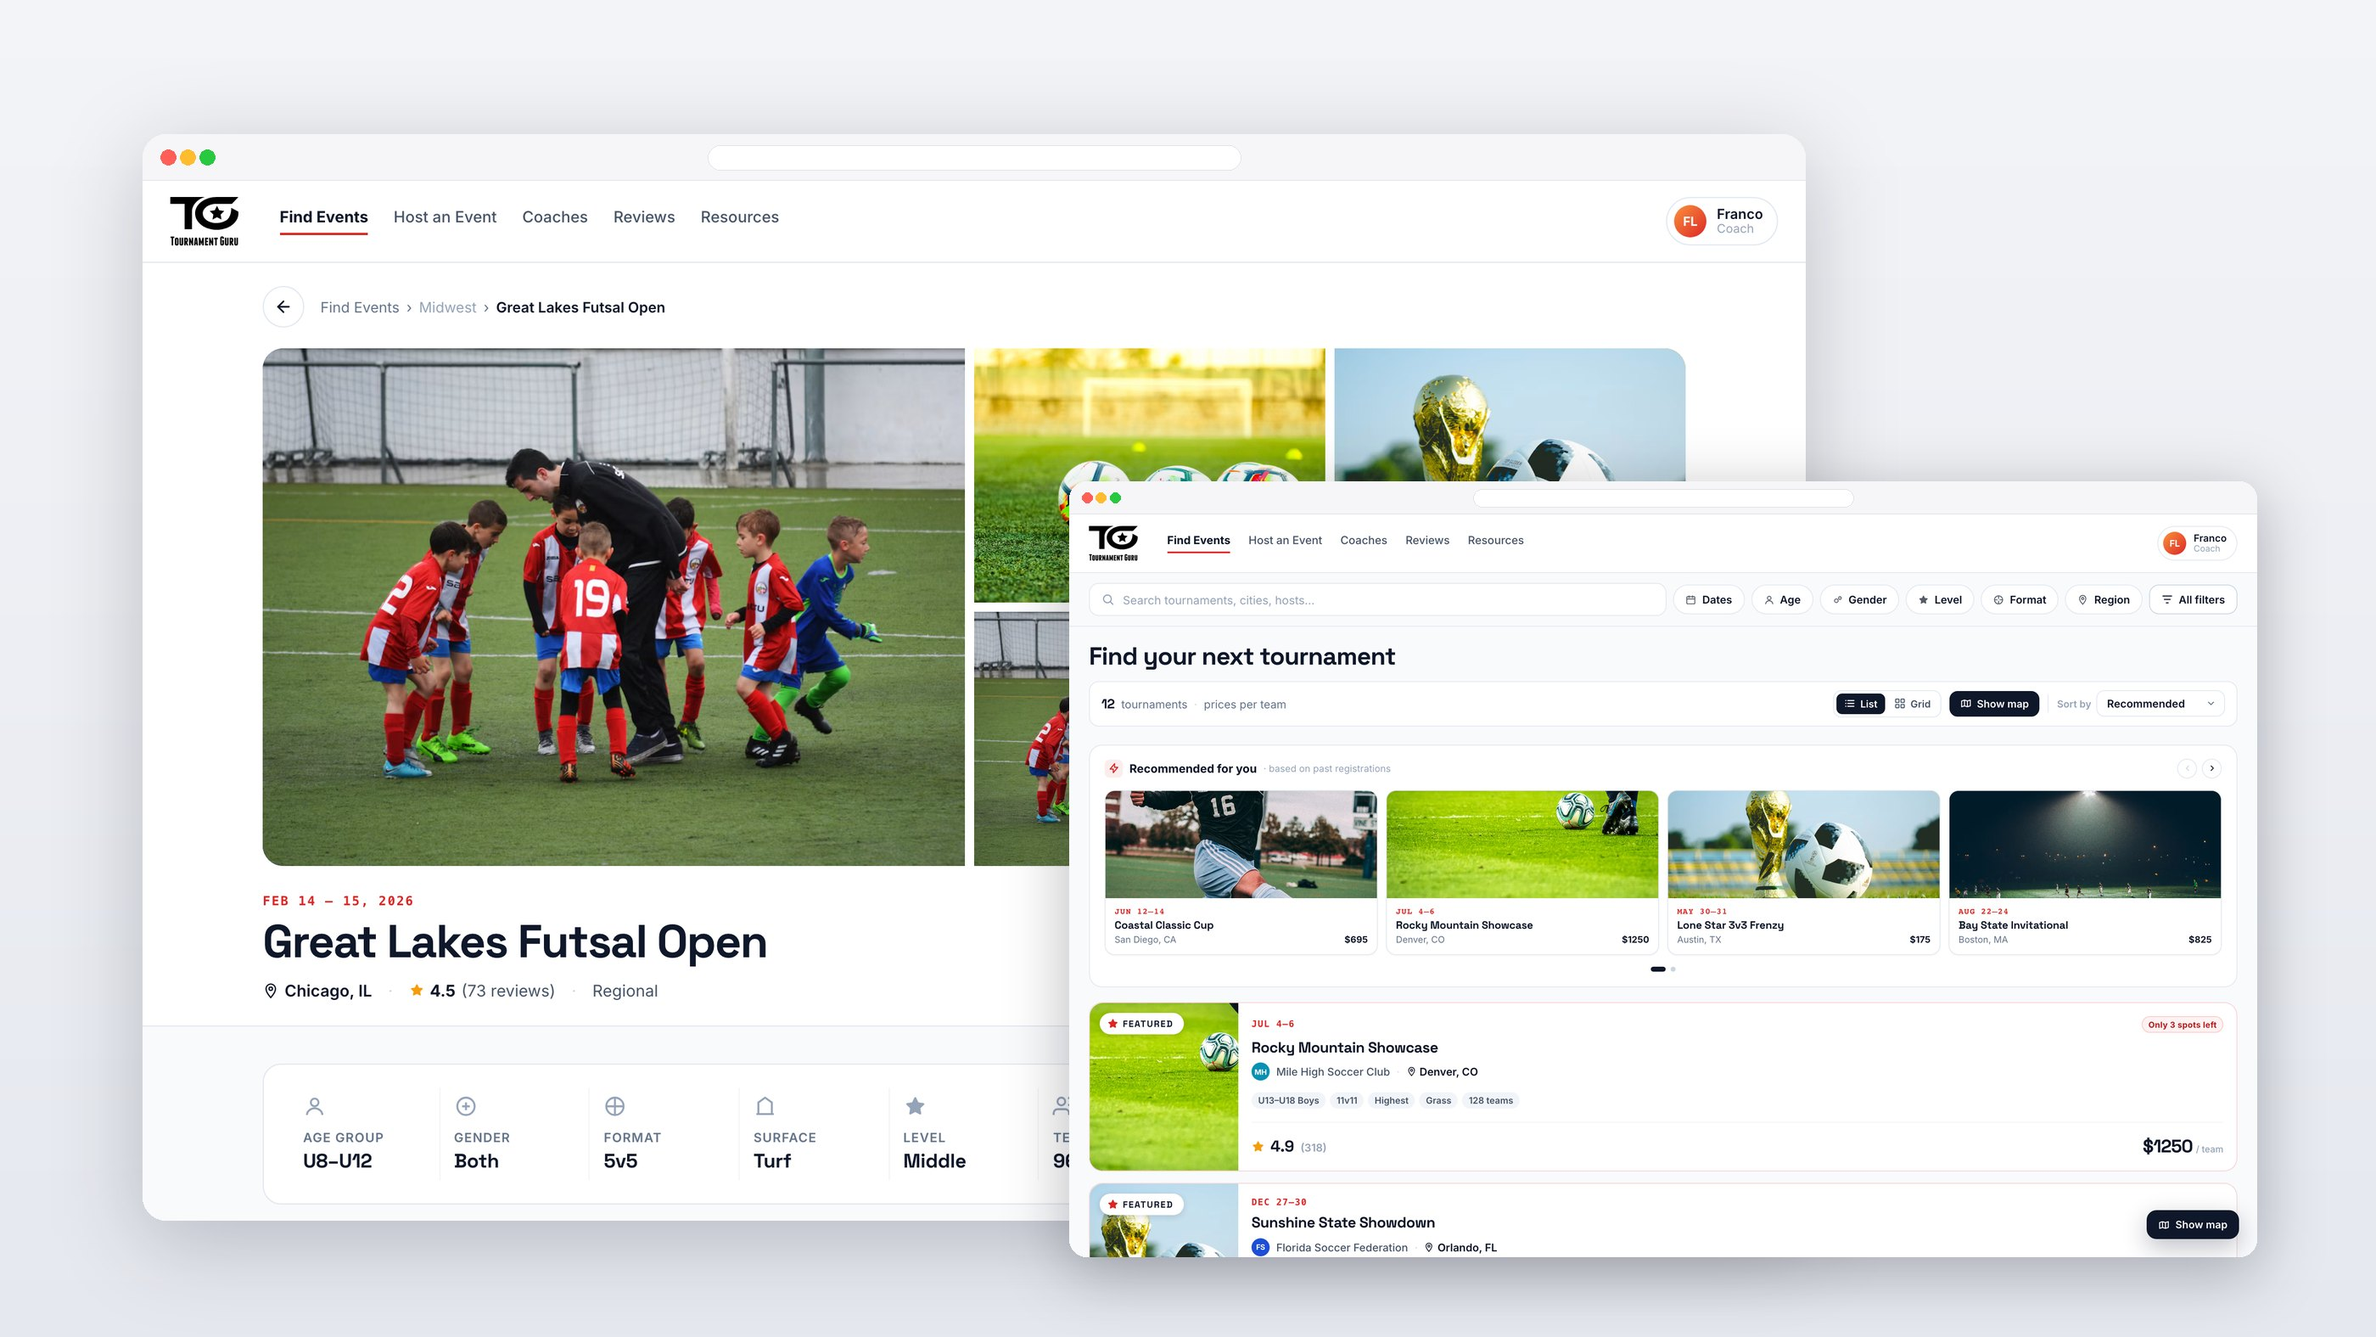
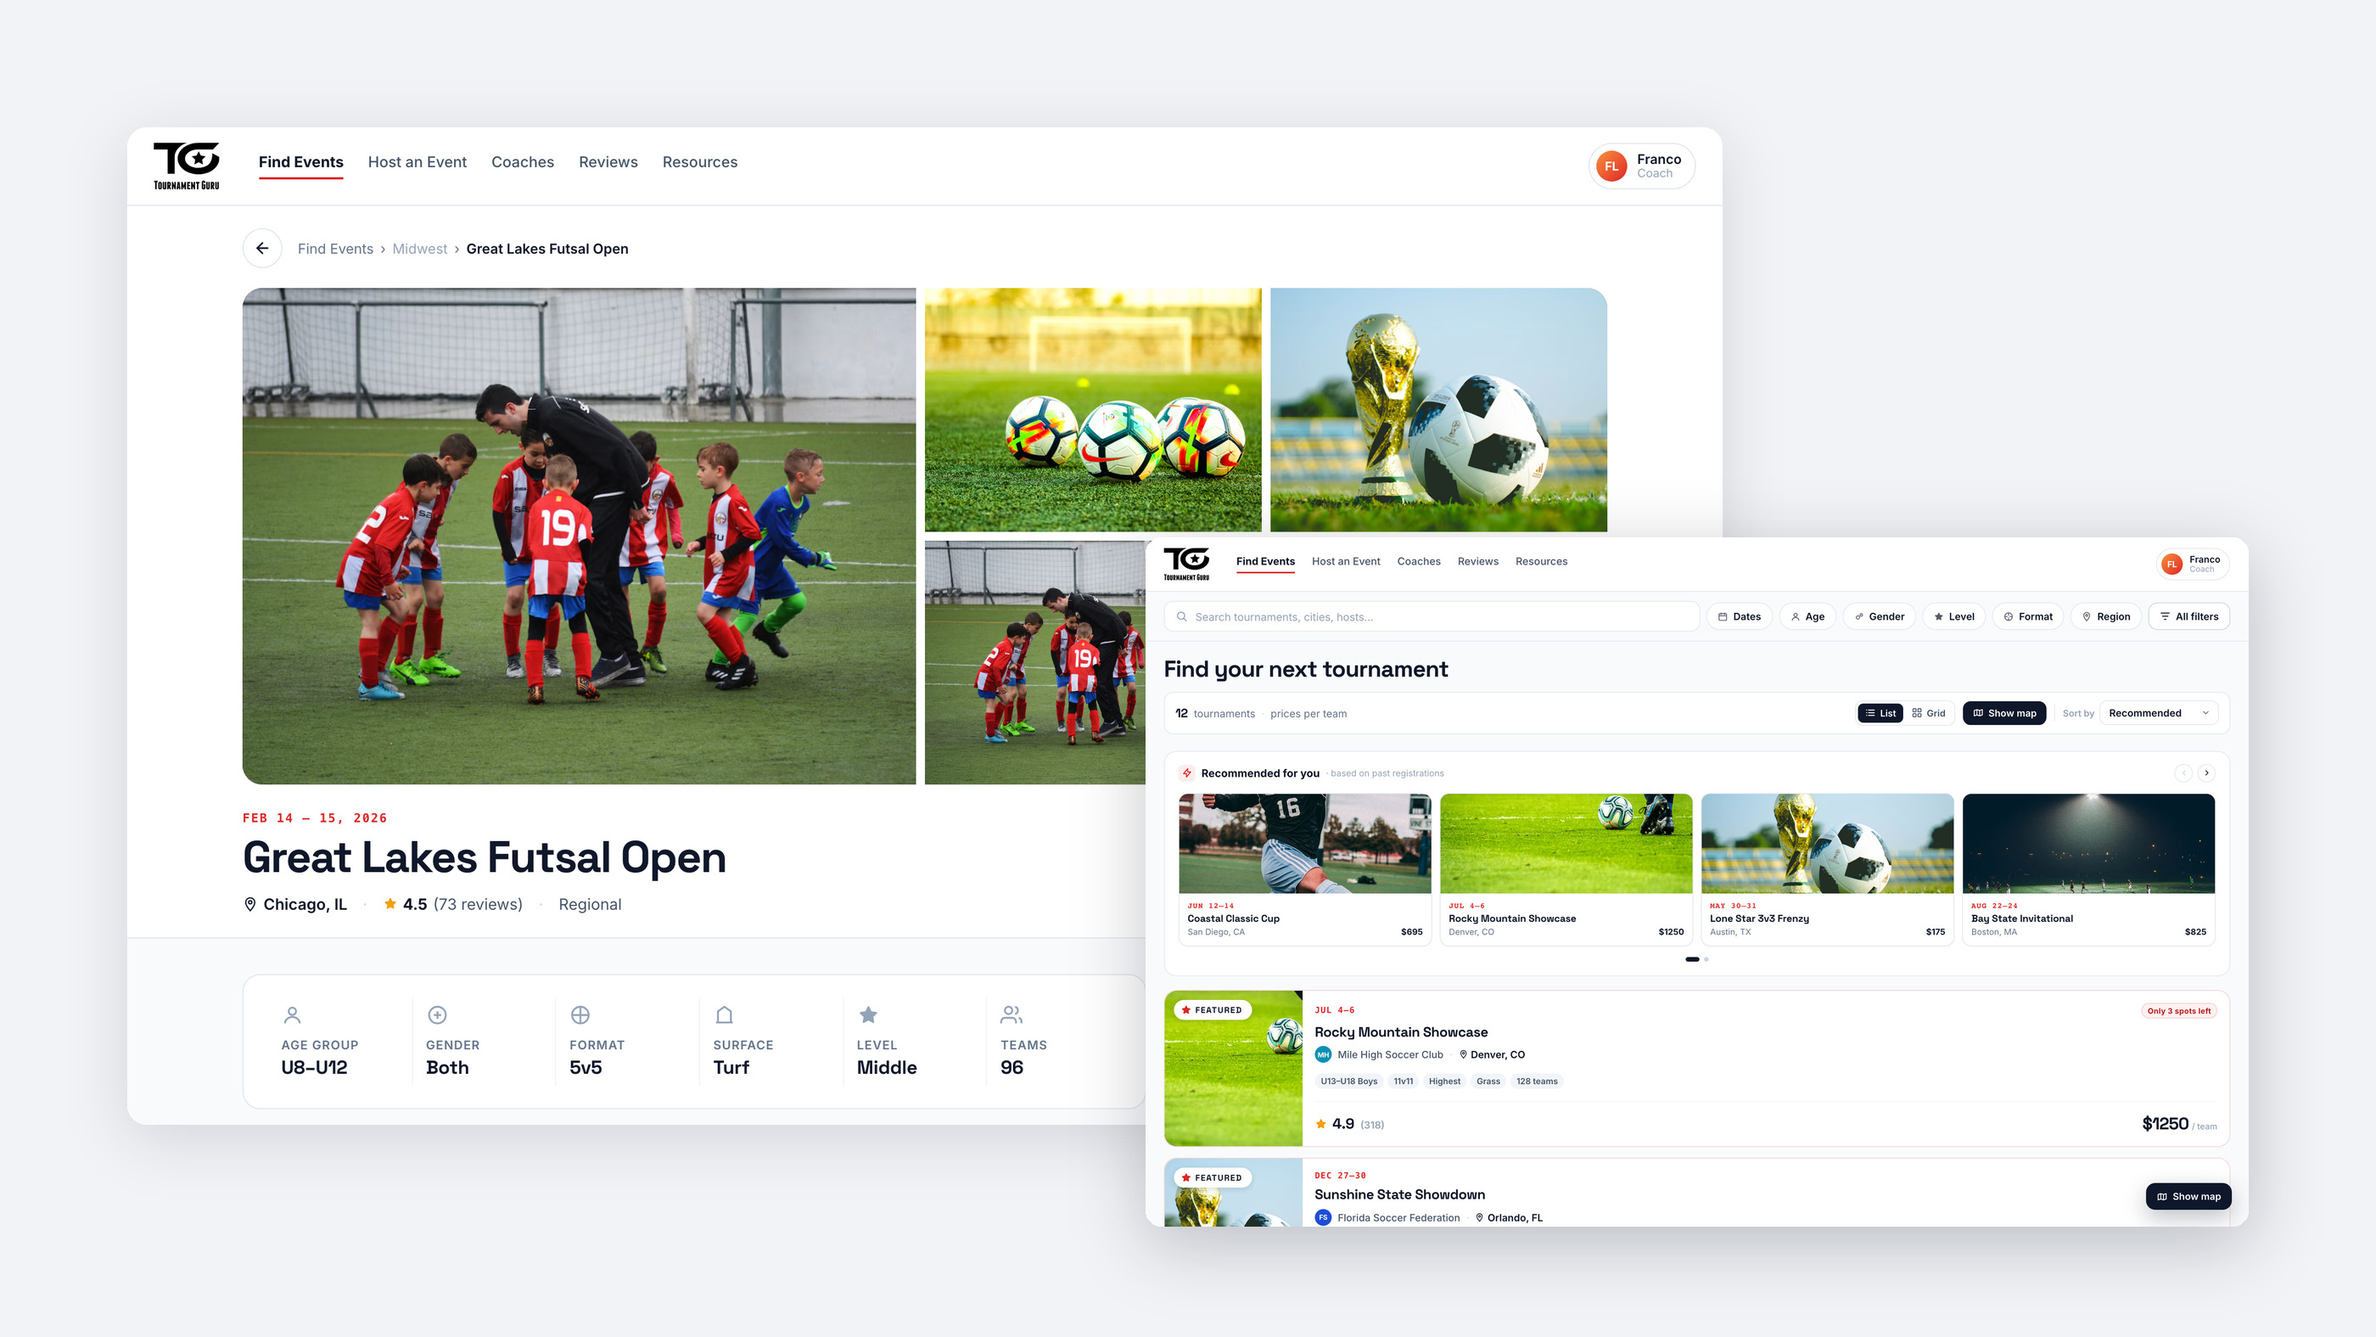
Tournament Guru: photos, flow stairs, sharp screens, new cover
Claude-Session: https://claude.ai/code/session_019s9hMNDEcLkm54bZicL17g

diff --git a/cases/tournament-guru.html b/cases/tournament-guru.html
@@ -199,6 +199,16 @@ figure{margin:0}
 
 /* «следующий кейс»: тёмное затемнение снизу, светлый текст */
 .ncase .media::after{background:linear-gradient(to top,rgba(10,14,24,.82) 0%,rgba(10,14,24,.45) 30%,rgba(10,14,24,0) 60%)!important}.ncase .lbl small{color:rgba(255,255,255,.75)!important}.ncase .lbl b{color:#fff!important}
+
+/* User flow: лестница шагов */
+.fstairs{position:relative;display:grid;grid-template-columns:repeat(6,1fr);column-gap:0;row-gap:18px;padding:28px 0}.fstairs>i{position:absolute;top:0;bottom:0;width:0;border-left:1.5px dashed #D5D9E2}.fstairs>i:nth-child(1){left:calc(0% + 50px)}.fstairs>i:nth-child(2){left:calc(16.666% + 50px)}.fstairs>i:nth-child(3){left:calc(33.333% + 50px)}.fstairs>i:nth-child(4){left:calc(50% + 50px)}.fstairs>i:nth-child(5){left:calc(66.666% + 50px)}.fs{position:relative;z-index:1;grid-row:calc(var(--i) + 1);grid-column:calc(var(--i) + 1)/span 2;display:flex;gap:16px;align-items:center;background:#fff;border-radius:24px;padding:12px 22px 12px 12px;box-shadow:0 0 0 1px rgba(18,23,64,.07),0 16px 34px -20px rgba(18,23,64,.25)}.fs-ic{flex:none;width:76px;height:76px;border-radius:18px;display:grid;place-items:center}.fs-ic svg{width:30px;height:30px}.fs-tx{min-width:0}.fs-n{font-size:12px;color:var(--ink-3);font-variant-numeric:tabular-nums}.fs-tx b{display:block;font-family:var(--font-display);font-weight:500;font-size:20px;letter-spacing:-.015em;margin-top:2px}.fs-tx p{font-size:14px;color:var(--ink-2);margin-top:2px}.fs-ch{display:flex;flex-wrap:wrap;gap:6px;margin-top:10px}.fs-ch span{font-size:12px;padding:4px 10px;border-radius:999px;background:#F1F3F8;color:#121740}@media (max-width:980px){.fstairs{grid-template-columns:1fr;padding:0}.fstairs>i{display:none}.fs{grid-row:auto;grid-column:1}}
+
+/* карточки флоу: ровные отступы, концентрические скругления */
+.fs{padding:16px!important;gap:20px!important;align-items:center!important;border-radius:28px!important}.fs-ic{width:88px!important;height:88px!important;align-self:center;border-radius:14px!important}.fs-ic svg{width:32px!important;height:32px!important}.fs-tx{display:flex;flex-direction:column;justify-content:center;padding:6px 14px 6px 0}.fs-n{line-height:1}.fs-tx b{margin-top:8px!important;line-height:1.2}.fs-tx p{margin-top:4px!important;line-height:1.4}.fs-ch{margin-top:12px!important}.fs-ch span{line-height:1.2;padding:5px 10px!important}
+
+/* фото в проблемах/решениях */
+.mix .media img{width:100%;height:100%;object-fit:cover;display:block}
+@media (max-width:980px){.mix .media{position:relative;aspect-ratio:auto!important;min-height:240px}.mix .media img{position:absolute;inset:0}}
 </style>
 </head>
 <body>
@@ -227,7 +237,7 @@ figure{margin:0}
     <div class="tags"><span class="tag">Web app · Marketplace</span><span class="tag acc">[My role]</span></div>
     <span class="year">Youth sports &nbsp;·&nbsp; [Year]</span>
   </div>
-  <div class="media rv"><img src="../img/cases/tournament-guru/cover.jpg" alt="Tournament Guru: tournament page and catalog" loading="lazy"></div>
+  <div class="media rv"><img src="../img/cases/tournament-guru/cover.jpg?v=2" alt="Tournament Guru: tournament page and catalog" loading="lazy"></div>
 </section>
 
 <section class="sec cintro">
@@ -291,14 +301,14 @@ figure{margin:0}
       <p class="body rv">Make the decision before signing up: compare events on facts and on the experience of teams who were there.</p>
     </div>
     <div class="mix">
-      <div class="media rv"><img src="../img/cases/tournament-guru/solution-1-reviews.jpg" alt="Ratings by category and verified reviews" loading="lazy"></div>
+      <div class="media rv"><img src="../img/cases/tournament-guru/photo-s1.jpg?v=1" alt="Coach reading verified reviews on his phone by the field" loading="lazy"></div>
       <div class="card rv"><span class="n">01</span><p>Verified reviews from coaches, directors and parents who attended — with ratings for field quality, organization, competition, communication and value.</p></div>
-      <div class="media rv"><img src="../img/cases/tournament-guru/solution-2-search.jpg" alt="Search, filters and recommendations" loading="lazy"></div>
+      <div class="media rv"><img src="../img/cases/tournament-guru/photo-s2.jpg?v=1" alt="Parent and coach comparing tournaments on a laptop" loading="lazy"></div>
       <div class="card rv"><span class="n">02</span><p>Search with filters by dates, age, gender, level, format and region, a map view and recommendations based on past registrations.</p></div>
       <div class="card rv"><span class="n">03</span><p>One event page with the essentials: schedule by day, what’s included, venue logistics — airport, hotels, parking — and the host’s track record.</p></div>
-      <div class="media rv"><img src="../img/cases/tournament-guru/solution-3-venue.jpg" alt="Venue and logistics" loading="lazy"></div>
+      <div class="media rv"><img src="../img/cases/tournament-guru/photo-s3.jpg?v=1" alt="Youth team arriving at the tournament venue" loading="lazy"></div>
       <div class="card rv"><span class="n">04</span><p>Transparent registration: team fee, platform fee and total upfront, “spots left” signals, and host confirmation before any charge.</p></div>
-      <div class="media rv"><img src="../img/cases/tournament-guru/solution-4-booking.jpg" alt="Registration card with transparent pricing" loading="lazy"></div>
+      <div class="media rv"><img src="../img/cases/tournament-guru/photo-s4.jpg?v=1" alt="Team celebrating with a trophy" loading="lazy"></div>
     </div>
   </div>
 </section>
@@ -309,10 +319,7 @@ figure{margin:0}
       <h2 class="h2 rv">User flow</h2>
       <p class="body rv">The core path a coach takes from first visit to a registered team.</p>
     </div>
-    <figure class="fig rv">
-      <div class="media"><img src="../img/cases/tournament-guru/flow.jpg" alt="User flow: sign in, find events, compare, check details, register team" loading="lazy"></div>
-      <figcaption>Host profile and similar tournaments support the decision at the details step.</figcaption>
-    </figure>
+    <div class="fstairs"><i></i><i></i><i></i><i></i><i></i><div class="fs rv" style="--i:0"><div class="fs-ic" style="background:#1D4ED8"><svg viewBox="0 0 24 24" fill="none" stroke="#fff" stroke-width="1.8" stroke-linecap="round" stroke-linejoin="round"><path d="M19 21v-2a4 4 0 0 0-4-4H9a4 4 0 0 0-4 4v2"/><circle cx="12" cy="7" r="4"/></svg></div><div class="fs-tx"><span class="fs-n">01</span><b>Sign in</b><p>Coach, parent or organizer</p><div class="fs-ch"><span>Email or Google</span></div></div></div><div class="fs rv" style="--i:1"><div class="fs-ic" style="background:#0F172A"><svg viewBox="0 0 24 24" fill="none" stroke="#fff" stroke-width="1.8" stroke-linecap="round" stroke-linejoin="round"><circle cx="11" cy="11" r="7"/><path d="m20 20-3.5-3.5"/></svg></div><div class="fs-tx"><span class="fs-n">02</span><b>Find events</b><p>Filters · map · recommended</p><div class="fs-ch"><span>6 filters</span><span>Map view</span></div></div></div><div class="fs rv" style="--i:2"><div class="fs-ic" style="background:#F59E0B"><svg viewBox="0 0 24 24" fill="none" stroke="#fff" stroke-width="1.8" stroke-linecap="round" stroke-linejoin="round"><path d="m12 3 2.7 5.6 6.1.9-4.4 4.3 1 6.1L12 17l-5.4 2.9 1-6.1L3.2 9.5l6.1-.9z"/></svg></div><div class="fs-tx"><span class="fs-n">03</span><b>Compare</b><p>Verified reviews · ratings</p><div class="fs-ch"><span>5 rating criteria</span></div></div></div><div class="fs rv" style="--i:3"><div class="fs-ic" style="background:#64748B"><svg viewBox="0 0 24 24" fill="none" stroke="#fff" stroke-width="1.8" stroke-linecap="round" stroke-linejoin="round"><path d="M12 21s-7-6.2-7-11a7 7 0 0 1 14 0c0 4.8-7 11-7 11z"/><circle cx="12" cy="10" r="2.5"/></svg></div><div class="fs-tx"><span class="fs-n">04</span><b>Check details</b><p>Schedule · venue · what’s included</p><div class="fs-ch"><span>Host profile</span><span>Similar events</span></div></div></div><div class="fs rv" style="--i:4"><div class="fs-ic" style="background:#DC2626"><svg viewBox="0 0 24 24" fill="none" stroke="#fff" stroke-width="1.8" stroke-linecap="round" stroke-linejoin="round"><path d="M20 6 9 17l-5-5"/></svg></div><div class="fs-tx"><span class="fs-n">05</span><b>Register team</b><p>Transparent fees</p><div class="fs-ch"><span>Host confirms first</span></div></div></div></div>
   </div>
 </section>
 
@@ -346,12 +353,14 @@ figure{margin:0}
   <div class="wrap">
     <div class="shead">
       <h2 class="h2 rv">UI design</h2>
-      <p class="body rv">Catalog for discovery, a sign-in that sells the value, and an event page built for the final decision.</p>
+      <p class="body rv">Catalog for discovery, an event page built for the final decision — schedule, fees, host and verified reviews — and a sign-in that sells the value.</p>
     </div>
     <div class="screens">
-      <div class="media span rv"><img src="../img/cases/tournament-guru/screen-catalog.jpg" alt="Catalog with filters and recommended tournaments" loading="lazy"></div>
-      <div class="media rv"><img src="../img/cases/tournament-guru/screen-login.jpg" alt="Sign-in with value proposition" loading="lazy"></div>
-      <div class="media rv"><img src="../img/cases/tournament-guru/screen-event.jpg" alt="Tournament page" loading="lazy"></div>
+      <div class="media span rv"><img src="../img/cases/tournament-guru/screen-catalog.jpg?v=2" alt="Catalog with filters and recommended tournaments" loading="lazy"></div>
+      <div class="media rv"><img src="../img/cases/tournament-guru/screen-event.jpg?v=2" alt="Tournament page with key facts" loading="lazy"></div>
+      <div class="media rv"><img src="../img/cases/tournament-guru/screen-details.jpg?v=1" alt="Schedule, what’s included and the registration card with fees" loading="lazy"></div>
+      <div class="media rv"><img src="../img/cases/tournament-guru/screen-reviews.jpg?v=1" alt="Host profile, ratings by category and verified reviews" loading="lazy"></div>
+      <div class="media rv"><img src="../img/cases/tournament-guru/screen-login.jpg?v=2" alt="Sign-in with value proposition" loading="lazy"></div>
     </div>
     <p class="body rv" style="margin-top:20px"><a href="https://tournament-guru.vercel.app/index.html" target="_blank" rel="noopener" style="color:var(--brand)">Open the live prototype ↗</a></p>
   </div>

diff --git a/ru.html b/ru.html
@@ -1001,7 +1001,7 @@ dialog.sheet[open]{animation:pop .45s var(--ease)}
         <dl class="wk-kpi"><div><dt>Веб</dt><dd>Тип продукта</dd></div><div><dt>[Роль]</dt><dd>Моя роль</dd></div><div><dt>[Срок]</dt><dd>Длительность</dd></div></dl>
         <span class="wk-cta">Смотреть кейс</span>
       </div>
-      <div class="wk-vis wk-img pvw sq" data-r="20"><div class="pv-ph sq" data-r="18"><img src="img/cases/tournament-guru/cover.jpg" alt="Tournament Guru" loading="lazy"></div></div>
+      <div class="wk-vis wk-img pvw sq" data-r="20"><div class="pv-ph sq" data-r="18"><img src="img/cases/tournament-guru/cover.jpg?v=2" alt="Tournament Guru" loading="lazy"></div></div>
     </a>
   </div>
 </section>

diff --git a/cases/bookkeeper-ai.html b/cases/bookkeeper-ai.html
@@ -383,7 +383,7 @@ figure{margin:0}
   <div class="wrap">
     <div class="next">
       <a class="ncase rv" href="tournament-guru.html">
-        <div class="media"><img src="../img/cases/tournament-guru/cover.jpg" alt="Tournament Guru" loading="lazy"></div>
+        <div class="media"><img src="../img/cases/tournament-guru/cover.jpg?v=2" alt="Tournament Guru" loading="lazy"></div>
         <div class="lbl"><div><small>Next case study</small><b>Tournament Guru</b></div><span class="arr circle"><svg width="16" height="16" viewBox="0 0 16 16" fill="none" stroke="currentColor" stroke-width="1.6" stroke-linecap="round" stroke-linejoin="round"><path d="M3 8h10M9 4l4 4-4 4"/></svg></span></div>
       </a>
       <div class="cta rv">

diff --git a/index.html b/index.html
@@ -1001,7 +1001,7 @@ dialog.sheet[open]{animation:pop .45s var(--ease)}
         <dl class="wk-kpi"><div><dt>Web</dt><dd>Product type</dd></div><div><dt>[Role]</dt><dd>My role</dd></div><div><dt>[Timeline]</dt><dd>Duration</dd></div></dl>
         <span class="wk-cta">View case</span>
       </div>
-      <div class="wk-vis wk-img pvw sq" data-r="20"><div class="pv-ph sq" data-r="18"><img src="img/cases/tournament-guru/cover.jpg" alt="Tournament Guru" loading="lazy"></div></div>
+      <div class="wk-vis wk-img pvw sq" data-r="20"><div class="pv-ph sq" data-r="18"><img src="img/cases/tournament-guru/cover.jpg?v=2" alt="Tournament Guru" loading="lazy"></div></div>
     </a>
   </div>
 </section>

diff --git a/cases/_tools/build_tournament.py b/cases/_tools/build_tournament.py
@@ -1,0 +1,40 @@
+"""Tournament Guru: обложка, экраны без панели браузера и фото. Запуск из корня репозитория."""
+import sys
+sys.path.insert(0, 'cases/_tools')
+from PIL import Image
+import flat as F
+
+S, O = 'cases/_src/tournament-guru', 'img/cases/tournament-guru'
+BG = (241, 243, 247)
+
+
+def scr(n, y=0):
+    return Image.open(f'{S}/{n}.png').convert('RGB').crop((0, y, 2880, y + 1800))
+
+
+def tile(img, size, pad, r):
+    W, H = size
+    cv = Image.new('RGBA', size, BG + (255,))
+    c = F.fit(img, W - pad * 2, H - pad * 2)
+    F._place(cv, F._card(c, r, border=False), ((W - c.width) // 2, (H - c.height) // 2), r, blur=26, alpha=30, dy=12)
+    return cv
+
+
+# обложка: страница турнира + каталог поверх
+W, H = 2800, 1575
+cv = Image.new('RGBA', (W, H), BG + (255,))
+a = F.fit(scr('d_event'), w=1880)
+F._place(cv, F._card(a, 22, border=False), (150, 150), 22, blur=34, alpha=34, dy=16)
+b = F.fit(scr('d_catalog_nomap'), w=1300)
+F._place(cv, F._card(b, 18, border=False), (W - 150 - b.width, H - 130 - b.height), 18, blur=40, alpha=60, dy=20)
+F.save(cv, f'{O}/cover.jpg')
+
+F.save(tile(scr('d_catalog_nomap'), (2400, 1200), 90, 22), f'{O}/screen-catalog.jpg')
+F.save(tile(scr('d_event'), (1600, 1000), 80, 16), f'{O}/screen-event.jpg')
+F.save(tile(scr('d_event_full', 1500), (1600, 1000), 80, 16), f'{O}/screen-details.jpg')
+F.save(tile(scr('d_event_full', 4280), (1600, 1000), 80, 16), f'{O}/screen-reviews.jpg')
+F.save(tile(scr('d_login'), (1600, 1000), 80, 16), f'{O}/screen-login.jpg')
+
+for k in ['s1', 's2', 's3', 's4']:
+    Image.open(f'{S}/ai/{k}.png').convert('RGB').save(f'{O}/photo-{k}.jpg', quality=90, subsampling=0, optimize=True)
+print('ok')
